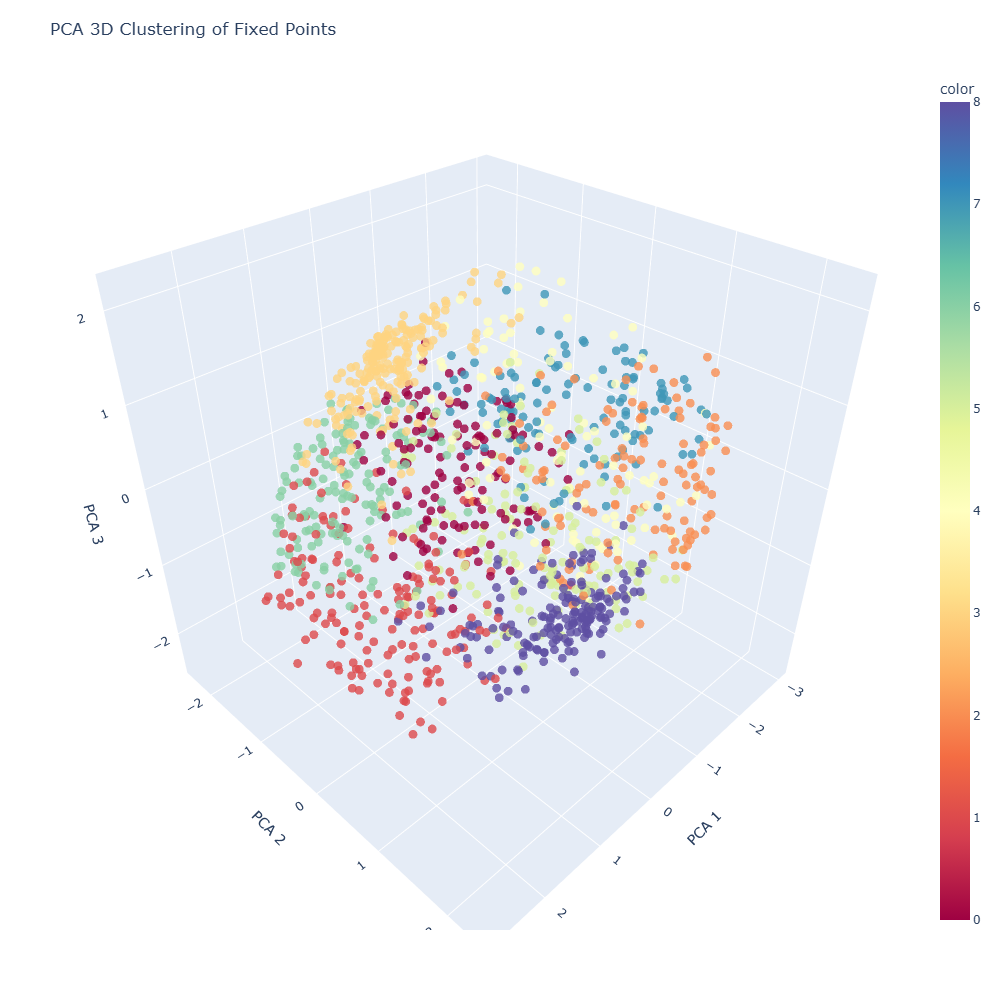
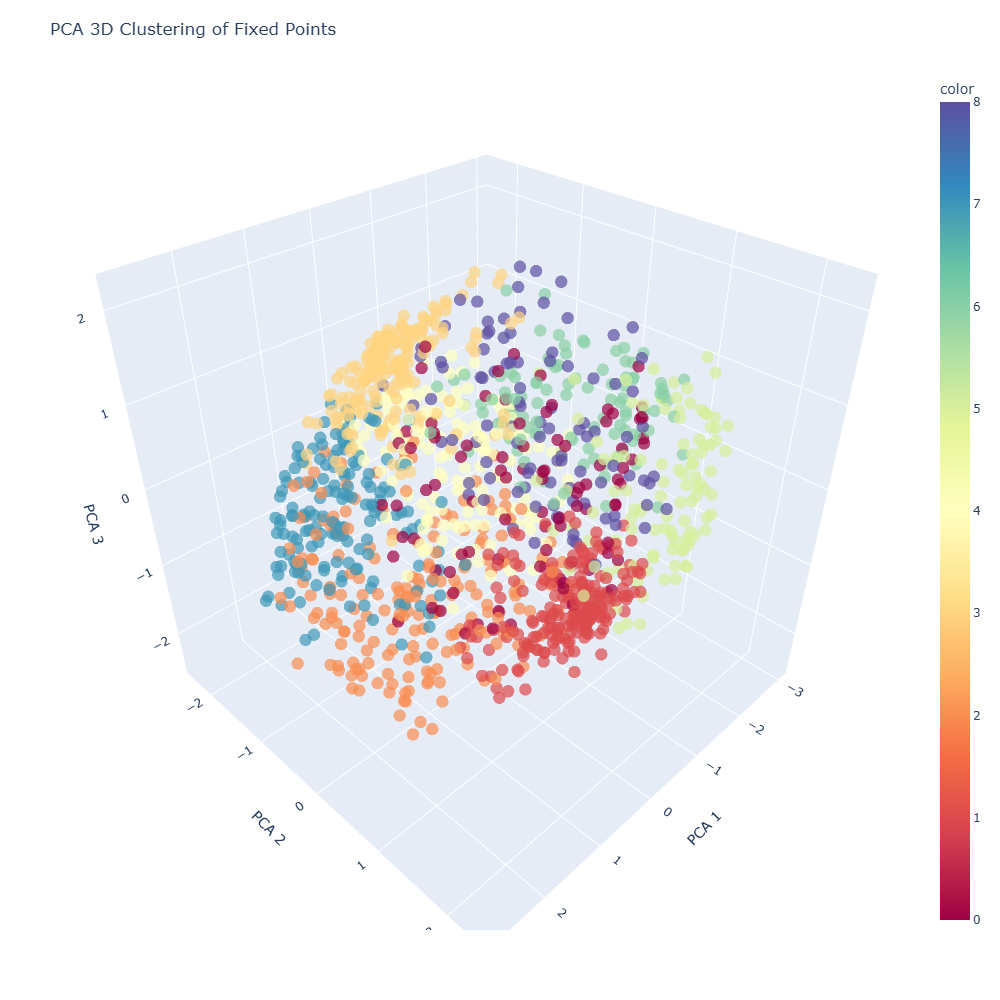
update report

Changed region(s): [[0.248, 0.248, 0.744, 0.744]]

diff --git a/genedyn/__init__.py b/genedyn/__init__.py
@@ -296,7 +296,7 @@ def clustering_fixed_points():
 
     plt.figure(figsize=(8, 6))
     scatter = plt.scatter(umap_embedding_2d[:, 0], umap_embedding_2d[:, 1], c=clusters,
-                          cmap='Spectral', s=8, alpha=0.8)
+                          cmap='Spectral', s=14, alpha=0.8)
     plt.colorbar(scatter, label='Cluster')
     plt.title('UMAP 2D Clustering of Fixed Points')
     plt.xlabel('UMAP 1')
@@ -319,8 +319,8 @@ def clustering_fixed_points():
     )
     fig.update_traces(
         marker=dict(
-            size=5,
-            opacity=0.8,
+            size=7,
+            opacity=0.7,
             line=dict(width=0)
         )
     )
@@ -340,7 +340,7 @@ def clustering_fixed_points():
 
     plt.figure(figsize=(8, 6))
     scatter = plt.scatter(pca_embedding_2d[:, 0], pca_embedding_2d[:, 1], c=clusters,
-                          cmap='Spectral', s=8, alpha=0.8)
+                          cmap='Spectral', s=14, alpha=0.8)
     plt.colorbar(scatter, label='Cluster')
     plt.title('PCA 2D Clustering of Fixed Points')
     plt.xlabel('PCA 1')
@@ -363,8 +363,8 @@ def clustering_fixed_points():
     )
     fig.update_traces(
         marker=dict(
-            size=5,
-            opacity=0.8,
+            size=7,
+            opacity=0.7,
             line=dict(width=0)
         )
     )

diff --git a/main.py b/main.py
@@ -2,11 +2,12 @@ from genedyn import *
 
 
 def main():
-    number_of_stable_fixed_points = 512
-    generate_data(number_of_stable_fixed_points)
-    cluster_stable_points()
+    # number_of_stable_fixed_points = 512
+    # generate_data(number_of_stable_fixed_points)
+    # cluster_stable_points()
     clustering_fixed_points()
-    learning_dynamics_custom_sampling()
+    # learning_dynamics_custom_sampling()
+    # learning_dynamics_undersampling()
     pass
 
 
